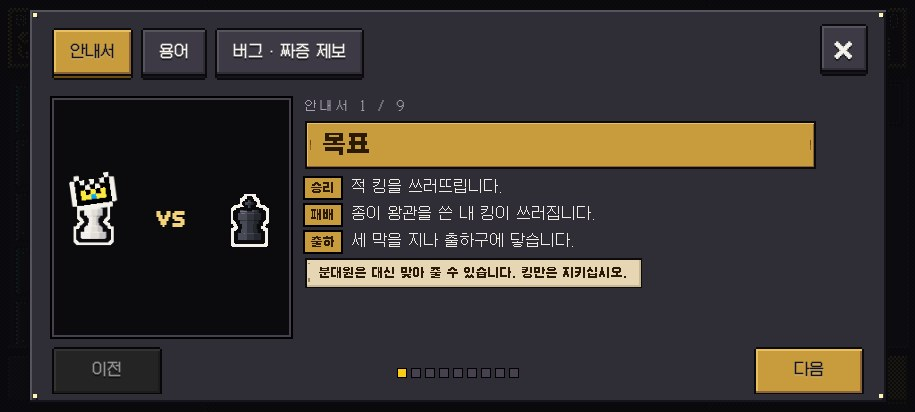
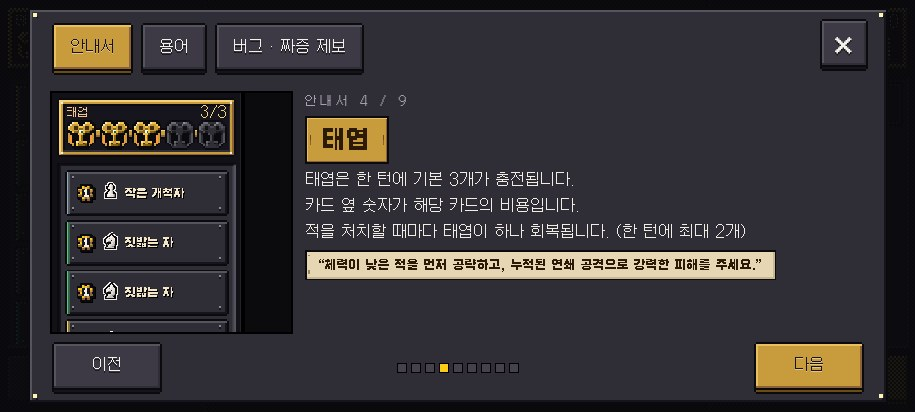
Rewrite guide pages and glossary: concept/logic/usage/tip lines, 2-line terms
안내서와 용어 문장을 다시 썼다 (D-264).
- 안내서 9쪽을 개념 · 로직 · 활용 세 줄 + 팁 한 줄 틀로. 2쪽 표시 설명을 「점 = 이동 · 파란 과녁 = 이동 + 공격 · 노란 과녁 = 이동 + 처치」로 정정, 1쪽 킹은 지금 주인공 그림으로.
- 용어 27개는 최대 두 줄, 줄바꿈 자리를 직접 지정했고, 낱장 칸 높이를 모두 같게 맞췄다.

Claude-Session: https://claude.ai/code/session_011jC4ZCDKW43H5FzLWnYVpe

diff --git a/src/data/opening.ts b/src/data/opening.ts
@@ -83,17 +83,20 @@ export const PROLOGUE_CUTS: PrologueCut[] = [
  * 말투: 규칙은 합니다체(시스템), 마지막 한 줄은 짧은 요령.
  */
 export type GuideMedia = { img: string } | { anim: 'king' | 'formula' | 'steam' };
-/** 쪽마다 줄 = [이름표, 짧은 설명] (D-263, 사용자: 「글은 길고 핵심만 알려 주지도 않는다」) — 한 줄에 하나, 핵심만 */
-export const GUIDE_PAGES: { title: string; lines: [string, string][]; tip?: string; media: GuideMedia }[] = [
-  { title: '목표', media: { anim: 'king' }, lines: [['승리', '적 킹을 쓰러뜨립니다.'], ['패배', '종이 왕관을 쓴 내 킹이 쓰러집니다.'], ['출하', '세 막을 지나 출하구에 닿습니다.']], tip: '분대원은 대신 맞아 줄 수 있습니다. 킹만은 지키십시오.' },
-  { title: '카드 → 기물 → 칸', media: { img: 'play' }, lines: [['1', '손패에서 카드를 고릅니다.'], ['2', '빛나는 기물을 고릅니다.'], ['3', '갈 칸을 누르면 그 자리에서 칩니다.'], ['표시', '점 = 갈 칸 · 과녁 = 칠 적 · 숫자 = 피해']], tip: '기물을 먼저 눌러도 맞는 카드가 골라집니다.' },
-  { title: '적의 예고', media: { img: 'intent' }, lines: [['붉은 칸', '적이 다음 차례에 칠 곳'], ['번호', '치는 순서'], ['턴 끝', '적이 예고대로 둡니다.']], tip: '붉은 칸에서 빠지거나, 그 적을 먼저 쓰러뜨리십시오.' },
-  { title: '태엽', media: { img: 'keys' }, lines: [['값', '카드 왼쪽 톱니 숫자만큼 듭니다.'], ['한 턴', '태엽 셋'], ['처치', '태엽 +1 (한 턴에 둘까지)']], tip: '싼 카드로 먼저 쓰러뜨리면 턴이 길어집니다.' },
-  { title: '피해 = (공격 + 합) × 곱', media: { anim: 'formula' }, lines: [['청록 +', '합 — 지금 바로 셉니다.'], ['주황 ×', '곱 — 쌓일수록 셉니다.'], ['적', '막을 지날수록 단단해집니다.']], tip: '처음엔 합으로 버티고, 곱을 모아 뒤를 넘으십시오.' },
-  { title: '연쇄', media: { img: 'chain' }, lines: [['연쇄', '한 턴에 처치할 때마다 다음 공격 +4'], ['폭주 코일', '이 부품이 있으면 처치마다 ×1.5'], ['연쇄 소모', '방출 · 증기 폭발 · 회수 — 쌓인 연쇄를 씁니다.']], tip: '약한 적부터 쓰러뜨려 연쇄를 쌓으십시오.' },
-  { title: '속전 보상과 나사', media: { anim: 'steam' }, lines: [['속전', '턴마다 한 칸 줄어듭니다.'], ['나사', '이기면 남은 칸 × 5 · 넘친 피해 10마다 1'], ['되감기', '이번 턴을 처음으로 (대국마다 한 번)']], tip: '빨리 이길수록 나사가 많습니다.' },
-  { title: '분대', media: { img: 'squad' }, lines: [['이어짐', '분대원은 대국 사이에도 남습니다.'], ['심장 톱니', '쓰러지면 하나가 깨진 채 돌아옵니다. 깨진 채 또 쓰러지면 폐기됩니다.'], ['승격', '끝 줄에 닿은 폰은 퀸 — 그 대국에서만']], tip: '분대원을 길게 누르면 기벽과 문턱이 보입니다.' },
-  { title: '반장', media: { img: 'boss' }, lines: [['반장', '막의 끝에서 규칙 하나를 들고 섭니다.'], ['표시', '불꽃 줄 = 줄 폭격 · 발톱 = 되받아침 · 불꽃 폰 = 자폭'], ['확인', '반장을 길게 누르면 규칙이 나옵니다.']], tip: '모르는 말은 「용어」에서 찾으십시오.' },
+/**
+ * 안내서 (D-264, 사용자: 「온보딩은 최고 중요 개념 1줄 · 핵심 로직 1줄 · 활용 로직 1줄 · 개발자의 팁 1줄」).
+ * lines = [개념, 로직, 활용] 세 줄 — 줄마다 한 문장, 합니다체. tip = 큰따옴표 한 줄(권하는 말투).
+ */
+export const GUIDE_PAGES: { title: string; lines: string[]; tip?: string; media: GuideMedia }[] = [
+  { title: '목표', media: { anim: 'king' }, lines: ['적 킹을 쓰러뜨리면 대국에서 승리합니다.', '종이 왕관을 쓴 내 킹이 쓰러지면 출하가 끝납니다.', '대국을 이기며 세 막을 지나 출하구에 닿으면 출하 완료입니다.'], tip: '분대원은 킹 대신 맞아 줄 수 있습니다. 킹은 끝까지 지키세요.' },
+  { title: '카드 → 기물 → 칸', media: { img: 'play' }, lines: ['카드를 고르면 그 카드로 움직일 수 있는 기물이 빛납니다.', '기물을 고르고 칸을 누르면, 도착한 자리에서 바로 공격합니다.', '점 = 이동 · 파란 과녁 = 이동 + 공격 · 노란 과녁 = 이동 + 처치'], tip: '노란 과녁부터 찾으세요. 처치가 곧 태엽입니다.' },
+  { title: '적의 예고', media: { img: 'intent' }, lines: ['붉은 칸은 적이 다음 차례에 칠 자리입니다.', '칸의 번호는 적이 움직이는 순서입니다.', '턴을 끝내면 적은 예고대로 움직입니다.'], tip: '붉은 칸에서 빠져나오며 치면 피해가 ×1.5가 됩니다.' },
+  { title: '태엽', media: { img: 'keys' }, lines: ['태엽은 한 턴에 기본 3개가 충전됩니다.', '카드 옆 숫자가 해당 카드의 비용입니다.', '적을 처치할 때마다 태엽이 하나 회복됩니다. (한 턴에 최대 2개)'], tip: '체력이 낮은 적을 먼저 공략하고, 누적된 연쇄 공격으로 강력한 피해를 주세요.' },
+  { title: '피해 = (공격 + 합) × 곱', media: { anim: 'formula' }, lines: ['피해는 (공격 + 합) × 곱으로 계산됩니다.', '청록 + 표지는 공격에 더하고, 주황 × 표지는 그 값에 곱합니다.', '적은 막을 지날수록 단단해져서, 뒤로 갈수록 곱이 중요합니다.'], tip: '초반엔 + 로 버티고, × 를 모아 후반을 넘으세요.' },
+  { title: '연쇄', media: { img: 'chain' }, lines: ['한 턴에 적을 처치할 때마다 연쇄가 쌓입니다.', '연쇄 하나마다 다음 공격의 피해가 +4 됩니다.', '방출 · 증기 폭발 · 회수 카드는 쌓인 연쇄를 한 번에 씁니다.'], tip: '약한 적부터 차례로 쓰러뜨리면 연쇄가 길게 이어집니다.' },
+  { title: '속전 보상과 나사', media: { anim: 'steam' }, lines: ['대국을 빨리 끝낼수록 속전 보상이 큽니다.', '속전 칸은 턴마다 하나씩 줄고, 이기면 남은 칸 × 5 나사를 받습니다.', '나사는 고물상에서 카드 · 부품 · 정비에 씁니다.'], tip: '넘친 피해 10마다 나사가 1개씩 더 들어옵니다.' },
+  { title: '분대', media: { img: 'squad' }, lines: ['분대원은 대국이 끝나도 다음 대국으로 이어집니다.', '쓰러지면 심장 톱니가 하나 깨진 채 돌아옵니다.', '깨진 채로 다시 쓰러지면 폐기되어 돌아오지 않습니다.'], tip: '분대원을 길게 누르면 기벽과 문턱을 볼 수 있습니다.' },
+  { title: '반장', media: { img: 'boss' }, lines: ['막의 끝에는 고유 규칙을 가진 반장이 기다립니다.', '반장의 규칙은 첫 턴부터 판 위에 표시됩니다.', '반장을 길게 누르면 규칙 설명을 볼 수 있습니다.'], tip: '모르는 말은 도움말의 「용어」에서 찾으세요.' },
 ];
 
 /** 첫 대국 도움말 (처음 출하하는 사람에게만, 시험대 한 판) */

diff --git a/src/data/hud.ts b/src/data/hud.ts
@@ -73,35 +73,35 @@ export const BATTLE_HELP: string[] = [
  */
 export type TermGate = 'base' | 'part' | 'charm' | 'shield' | 'door' | 'crack' | 'reinforce' | 'burn' | 'heir' | 'nemesis' | 'plate' | 'thorns' | 'blast' | 'stun' | 'graze' | 'shock' | 'quirk' | 'overkill' | 'spend';
 
-/** 용어 사전: [이름, 한 줄, 열리는 때] — 사전에는 열린 것만 (D-233) */
+/** 용어 사전: [이름, 설명, 열리는 때] — 사전에는 열린 것만 (D-233). 설명은 최대 두 줄, \n이 줄바꿈 자리 (D-264) */
 export const KEYWORDS: [string, string, TermGate][] = [
-  ['태엽', '카드를 내는 힘. 한 턴에 셋.', 'base'],
-  ['연쇄', '이번 턴 처치 수. 처치마다 다음 공격 +4.', 'base'],
-  ['승격', '끝 줄에 닿은 폰은 퀸. 그 대국에서만.', 'base'],
+  ['태엽', '카드를 내는 힘.\n한 턴에 기본 3개가 충전됩니다.', 'base'],
+  ['연쇄', '한 턴에 처치할 때마다 쌓입니다.\n연쇄 하나마다 다음 공격 +4.', 'base'],
+  ['승격', '끝 줄에 닿은 폰은 퀸이 됩니다.\n그 대국에서만 유지됩니다.', 'base'],
   ['속전', '빨리 이길수록 나사가 많습니다.', 'base'],
-  ['나사', '출하 내내 쓰는 돈. 고물상에서 씁니다.', 'base'],
+  ['나사', '출하 내내 쓰는 돈.\n고물상에서 씁니다.', 'base'],
   ['지휘', '아무 기물이나 움직이는 카드.', 'base'],
-  ['부품', '규칙을 바꾸는 장치. 같은 색 띠 카드와 맞물립니다.', 'part'],
-  ['청록 + 표지', '공격에 먼저 더합니다.', 'part'],
-  ['주황 × 표지', '더한 뒤에 곱합니다.', 'part'],
+  ['부품', '규칙을 바꾸는 장치.\n같은 색 띠 카드와 맞물립니다.', 'part'],
+  ['청록 + 표지', '공격에 먼저 더하는 피해.', 'part'],
+  ['주황 × 표지', '더한 값에 곱하는 배율.', 'part'],
   ['방열판', 'HP보다 먼저 깎이는 판.', 'shield'],
-  ['부적', '부품 칸을 쓰지 않는 톱니. 킹 대신 깨지거나, 되감기 한 번.', 'charm'],
+  ['부적', '부품 칸을 쓰지 않는 톱니.\n킹 대신 깨지거나, 되감기 1번.', 'charm'],
   ['보충병', '분대가 너무 줄면 들어오는 폰.', 'reinforce'],
-  ['넘친 피해', '적 HP를 넘은 피해. 10마다 나사 1.', 'overkill'],
-  ['연쇄 소모', '쌓인 연쇄를 모두 쓰는 카드.', 'spend'],
-  ['심장 톱니', '분대원의 목숨 둘. 깨진 채 쓰러지면 폐기.', 'crack'],
-  ['문턱', '쓰러질 피해를 HP 1로 한 번 버팁니다.', 'door'],
-  ['탄 카드', '움직일 기물이 없는 카드. 그 대국에서만 탑니다.', 'burn'],
-  ['유품', '쓰러진 분대원의 태엽. 이기면 나사.', 'heir'],
-  ['원수', '내 분대원을 쓰러뜨린 적. 더 세져서 돌아옵니다.', 'nemesis'],
-  ['기절', '헛친 적. 한 차례 쉬고 방열판 0.', 'stun'],
-  ['회피 반격', '붉은 칸에서 빠지며 치면 ×1.5.', 'graze'],
-  ['철갑', '두 턴마다 다시 차는 반장의 방열판.', 'plate'],
+  ['넘친 피해', '적 HP를 넘어선 피해.\n10마다 나사 1개가 됩니다.', 'overkill'],
+  ['연쇄 소모', '쌓인 연쇄를 한 번에 쓰는 카드.', 'spend'],
+  ['심장 톱니', '분대원의 목숨 2개.\n깨진 채 쓰러지면 폐기됩니다.', 'crack'],
+  ['문턱', '쓰러질 피해를 한 번,\nHP 1로 버팁니다.', 'door'],
+  ['탄 카드', '움직일 기물이 없는 카드.\n그 대국 동안만 탑니다.', 'burn'],
+  ['유품', '쓰러진 분대원의 태엽.\n이기면 나사가 됩니다.', 'heir'],
+  ['원수', '내 분대원을 쓰러뜨린 적.\n더 세져서 다시 나타납니다.', 'nemesis'],
+  ['기절', '헛친 적은 한 차례 쉬고,\n방열판이 0이 됩니다.', 'stun'],
+  ['회피 반격', '붉은 칸에서 빠져나오며 치면\n피해 ×1.5.', 'graze'],
+  ['철갑', '두 턴마다 다시 차는 반장 방열판.', 'plate'],
   ['줄 폭격', '두 턴마다 붉은 줄 하나를 칩니다.', 'plate'],
-  ['되받아침', '못 쓰러뜨리면 친 쪽이 다칩니다.', 'thorns'],
-  ['자폭', '쓰러지면 둘레를 칩니다.', 'blast'],
-  ['기벽', '분대원마다 붙은 버릇. 장점과 단점이 하나씩.', 'quirk'],
-  ['기어 쇼크', '예고를 맞으면 다음 턴 공격 ×0.5.', 'shock'],
+  ['되받아침', '치고도 못 쓰러뜨리면\n친 기물이 다칩니다.', 'thorns'],
+  ['자폭', '쓰러지면 둘레 칸을 칩니다.', 'blast'],
+  ['기벽', '분대원마다 붙은 버릇.\n장점과 단점이 하나씩.', 'quirk'],
+  ['기어 쇼크', '예고 공격을 맞은 기물은\n다음 턴 공격 ×0.5.', 'shock'],
 ];
 
 /** 반장 칭호 (D-249 등장 씬 — 이름 아래 한 줄, D-158 칭호 문체) */

diff --git a/src/slice/opening.ts b/src/slice/opening.ts
@@ -119,7 +119,7 @@ export const prologue = (short = false): Promise<void> =>
 const guideMedia = (m: GuideMedia): string => {
   if ('img' in m) return `<div class="gd-media shot"><img src="guide/${m.img}.png" alt=""></div>`;
   if (m.anim === 'king')
-    return `<div class="gd-media anim king"><span class="gd-crowned">${pieceImg('P', 0, 'large', 64)}<img class="pl-crown" src="ui/hud/paper-crown.png" alt=""></span><b>vs</b><span class="gd-foe">${pieceImg('K', 1, 'large', 64)}</span></div>`;
+    return `<div class="gd-media anim king"><span class="gd-crowned">${pieceImg('K', 0, 'large', 64)}</span><b>vs</b><span class="gd-foe">${pieceImg('K', 1, 'large', 64)}</span></div>`;
   if (m.anim === 'formula')
     return `<div class="gd-media anim formula" aria-label="피해 = (공격 + 합) × 곱">
       <div class="fx-row r1"><span class="gd-pc">${pieceImg('P', 0, 'small', 30)}</span><span>공격</span><b>10</b></div>
@@ -160,7 +160,7 @@ export const guide = (open: (html: string) => HTMLElement, last: string = OPENIN
       const g = GUIDE_PAGES[p];
       // 쪽 = 그림 + 제목 명패 + 「이름표 | 한 줄」 행 + 요령 테이프 (D-263)
       const el = open(`<div class="guide gd2">${o.tabs ?? ''}<button class="btn sq gd-x" type="button" data-x aria-label="${OPENING_TEXT.close}">✕</button>
-        <div class="gd-card">${guideMedia(g.media)}<div class="gd-text"><p class="sf-eyebrow">안내서 ${p + 1} / ${GUIDE_PAGES.length}</p><h2>${g.title}</h2><dl class="gd-rows">${g.lines.map(([k, v]) => `<dt>${k}</dt><dd>${v}</dd>`).join('')}</dl>${g.tip ? `<p class="gd-tip">${g.tip}</p>` : ''}</div></div>
+        <div class="gd-card">${guideMedia(g.media)}<div class="gd-text"><p class="sf-eyebrow">안내서 ${p + 1} / ${GUIDE_PAGES.length}</p><h2>${g.title}</h2><div class="gd-lines">${g.lines.map((l) => `<p>${l}</p>`).join('')}</div>${g.tip ? `<p class="gd-tip">“${g.tip}”</p>` : ''}</div></div>
         <div class="gd-nav"><button class="btn" type="button" data-prev${p ? '' : ' disabled'}>${OPENING_TEXT.prev}</button><div class="gd-dots">${GUIDE_PAGES.map((_, k) => `<i${k === p ? ' class="on"' : ''}></i>`).join('')}</div><button class="btn brass" type="button" data-next>${p === GUIDE_PAGES.length - 1 ? last : OPENING_TEXT.next}</button></div></div>`);
       replay(el.querySelector('.gd-media')!, 'in');
       el.querySelector('[data-x]')!.addEventListener('click', () => (sfx('tap'), end()));

diff --git a/src/slice/slice.css b/src/slice/slice.css
@@ -2148,3 +2148,10 @@ body.between .coach-line, body:has(#overlay:not([hidden])) .coach-line { display
 body.between #info { visibility: hidden; }
 body.slice .overlay .panel .stand > h2 { align-self: flex-start; display: inline-flex; width: fit-content; align-items: center; margin: 0; min-height: 34px; padding: 0 12px; color: #2a1a06; text-shadow: 0 1px 0 #fff1c0; border-style: solid; border-width: 10px; border-image: url('../assets/ui/chrome/plate.png') 5 fill / 10px stretch; image-rendering: pixelated; box-shadow: 0 3px 0 #000; }
 body.between #right, body.between #left { visibility: hidden; }
+/* 안내서 (D-264): 개념 · 로직 · 활용 세 줄 + 팁 한 줄 */
+.gd-lines { display: grid; gap: 4px; }
+.gd-lines p { margin: 0; font: 15px/1.45 Galmuri14, Galmuri11, sans-serif; color: #f2ede4; word-break: keep-all; }
+/* 용어 낱장 (D-264): 설명은 최대 두 줄(지정한 자리에서만 줄바꿈), 모든 칸 같은 높이 */
+.hp-dict { grid-auto-rows: 1fr; }
+.hd-term { grid-template-rows: auto 1fr; min-height: 76px; }
+.hd-term span { white-space: pre-line; }
